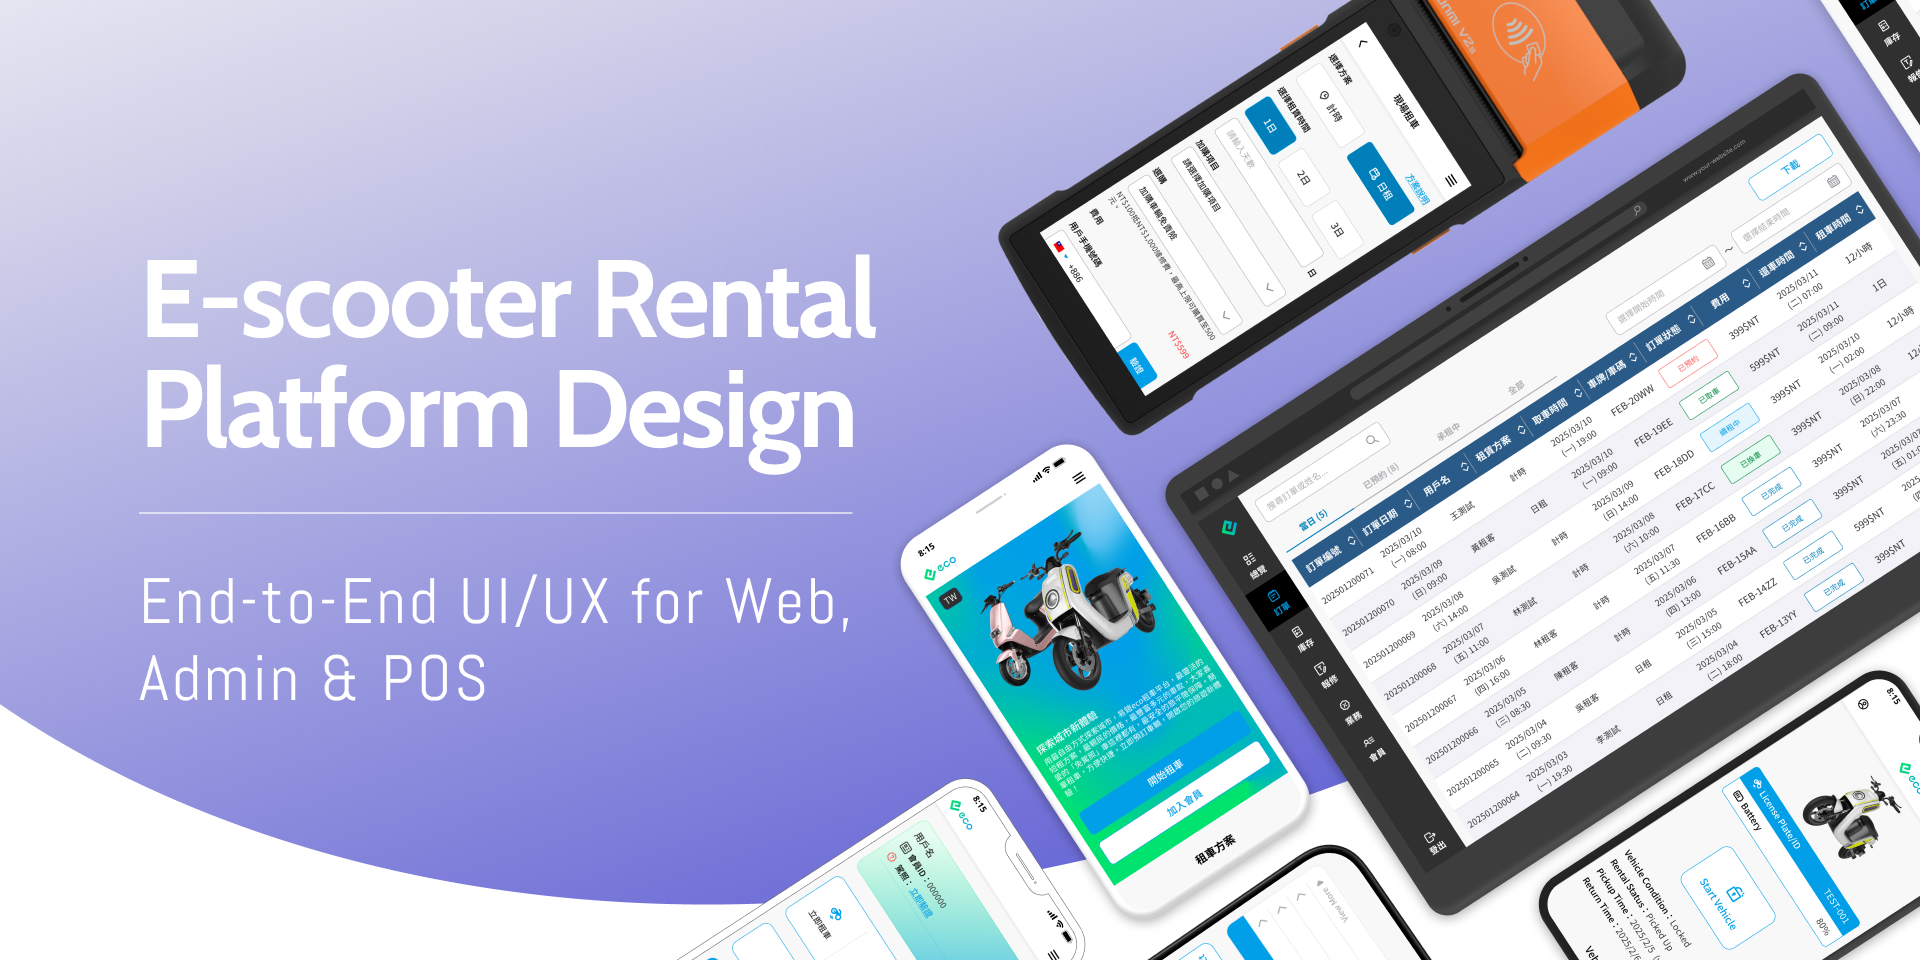
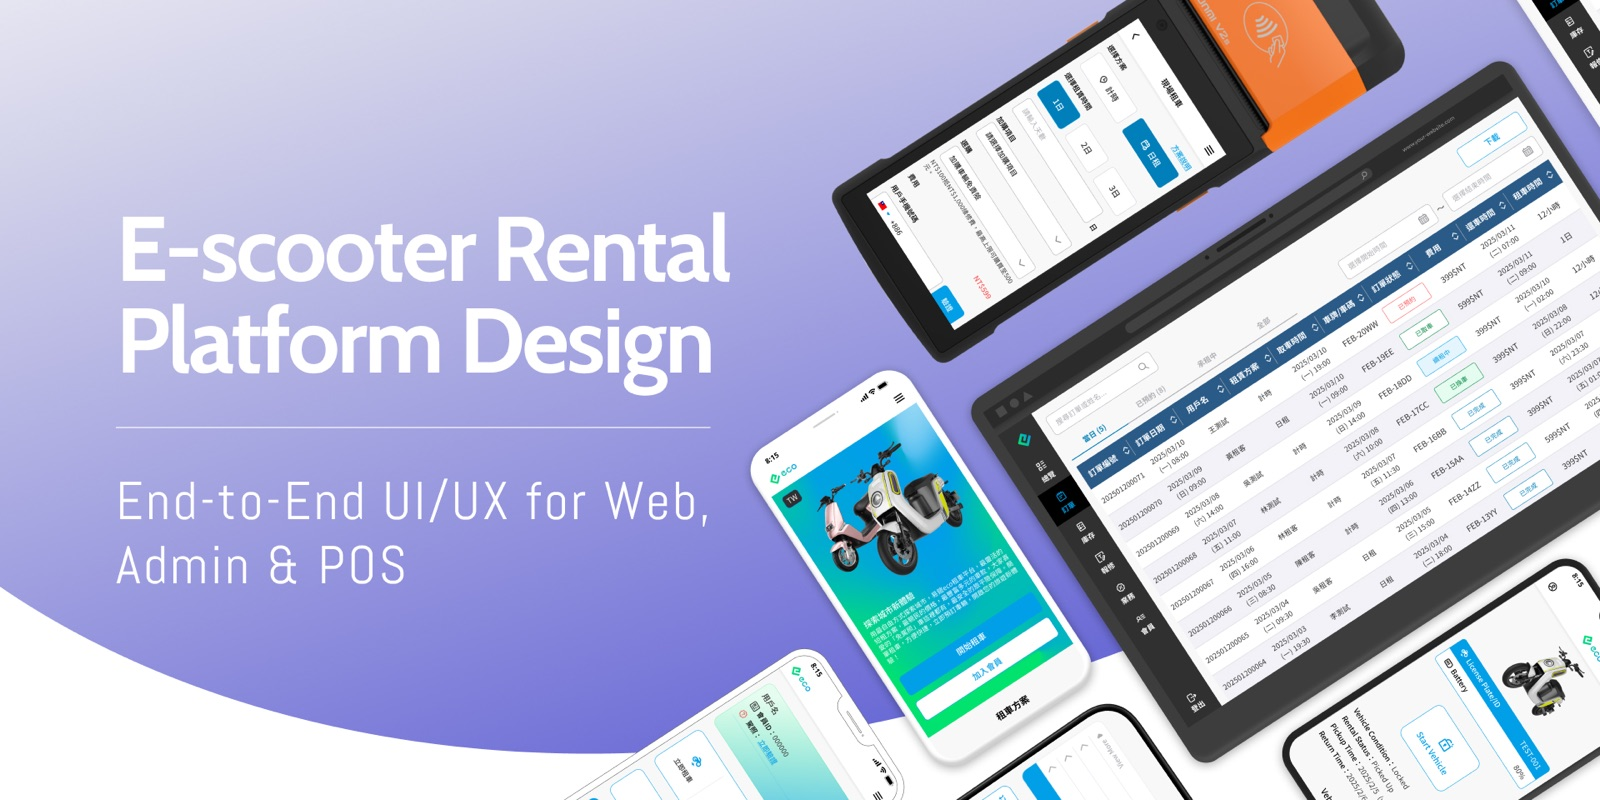
perf,a11y: shrink project images and raise secondary text contrast
Resize the three largest project images to 1600px and convert the
dailyfresh screenshot to JPEG (5.2 MB to 0.75 MB). Replace text-zinc-500
and text-zinc-600 (4.1:1 and 2.6:1) with a subtle token that clears
4.5:1 on every dark surface.

Changed region(s): [[0.5312, 0.5938, 0.5625, 0.625]]

diff --git a/src/app/[locale]/(marketing)/work/[slug]/page.tsx b/src/app/[locale]/(marketing)/work/[slug]/page.tsx
@@ -182,19 +182,19 @@ export default async function ProjectPage({ params }: ProjectPageProps) {
                 <h3 className="text-lg font-medium mb-4">{t("projectInfo")}</h3>
                 <div className="space-y-4">
                   <div>
-                    <p className="text-xs text-zinc-500 uppercase tracking-wider mb-1">
+                    <p className="text-xs text-subtle uppercase tracking-wider mb-1">
                       {t("type")}
                     </p>
                     <p className="text-zinc-200">{project.type}</p>
                   </div>
                   <div>
-                    <p className="text-xs text-zinc-500 uppercase tracking-wider mb-1">
+                    <p className="text-xs text-subtle uppercase tracking-wider mb-1">
                       {t("timeline")}
                     </p>
                     <p className="text-zinc-200">{project.quarter}</p>
                   </div>
                   <div>
-                    <p className="text-xs text-zinc-500 uppercase tracking-wider mb-1">
+                    <p className="text-xs text-subtle uppercase tracking-wider mb-1">
                       {t("stack")}
                     </p>
                     <div className="flex flex-wrap gap-1.5 mt-2">
@@ -239,7 +239,7 @@ export default async function ProjectPage({ params }: ProjectPageProps) {
                 href={`/work/${prevProject.slug}`}
                 className="group p-6 bg-zinc-900/30 border border-zinc-800 rounded-2xl hover:border-zinc-700 transition-colors"
               >
-                <div className="flex items-center gap-2 text-zinc-500 mb-2">
+                <div className="flex items-center gap-2 text-subtle mb-2">
                   <ArrowLeft size={16} />
                   <span className="text-sm">{t("previousProject")}</span>
                 </div>
@@ -256,7 +256,7 @@ export default async function ProjectPage({ params }: ProjectPageProps) {
                 href={`/work/${nextProject.slug}`}
                 className="group p-6 bg-zinc-900/30 border border-zinc-800 rounded-2xl hover:border-zinc-700 transition-colors text-right"
               >
-                <div className="flex items-center justify-end gap-2 text-zinc-500 mb-2">
+                <div className="flex items-center justify-end gap-2 text-subtle mb-2">
                   <span className="text-sm">{t("nextProject")}</span>
                   <ArrowRight size={16} />
                 </div>

diff --git a/src/app/[locale]/(marketing)/work/page.tsx b/src/app/[locale]/(marketing)/work/page.tsx
@@ -19,15 +19,15 @@ function ProjectCard({ project, index }: { project: Project; index: number }) {
       {/* Header: Number --- TYPE and Date */}
       <div className="flex items-center justify-between mb-3">
         <div className="flex items-center gap-3">
-          <span className="text-[13px] text-zinc-500 font-light">
+          <span className="text-[13px] text-subtle font-light">
             {projectNumber}
           </span>
           <div className="h-px bg-zinc-700 w-10" />
-          <span className="text-[10px] uppercase tracking-[0.2em] text-zinc-500">
+          <span className="text-[10px] uppercase tracking-[0.2em] text-subtle">
             {project.type}
           </span>
         </div>
-        <span className="text-[11px] text-zinc-500 tracking-wide">
+        <span className="text-[11px] text-subtle tracking-wide">
           {project.quarter}
         </span>
       </div>
@@ -37,7 +37,7 @@ function ProjectCard({ project, index }: { project: Project; index: number }) {
         <h2 className="text-[26px] font-serif text-white group-hover:text-zinc-300 transition-colors leading-tight">
           {project.title}
           {project.subtitle && (
-            <span className="text-zinc-500 ml-2 text-[20px] font-serif">
+            <span className="text-subtle ml-2 text-[20px] font-serif">
               {project.subtitle}
             </span>
           )}
@@ -134,7 +134,7 @@ export default function WorkPage() {
 
       {/* Hero Section */}
       <section className="px-6 pt-32 pb-16 max-w-6xl mx-auto text-center relative z-10">
-        <p className="text-[11px] uppercase tracking-[0.35em] text-zinc-500 mb-5">
+        <p className="text-[11px] uppercase tracking-[0.35em] text-subtle mb-5">
           {t("label")}
         </p>
         <h1 className="text-4xl md:text-5xl lg:text-[56px] font-medium leading-tight">

diff --git a/src/app/[locale]/(marketing)/resume/page.tsx b/src/app/[locale]/(marketing)/resume/page.tsx
@@ -21,7 +21,7 @@ export default function ResumePage() {
     <main className="min-h-screen bg-[#0a0a0b]">
       {/* Hero */}
       <section className="px-6 pt-32 pb-16 max-w-4xl mx-auto">
-        <p className="text-xs uppercase tracking-[0.2em] text-zinc-500 mb-4">
+        <p className="text-xs uppercase tracking-[0.2em] text-subtle mb-4">
           {t("label")}
         </p>
         <h1 className="text-4xl md:text-6xl font-medium leading-tight mb-6">
@@ -49,7 +49,7 @@ export default function ResumePage() {
             {t("getInTouch")}
           </a>
         </div>
-        <p className="text-xs text-zinc-600 mt-3">Updated June 2026</p>
+        <p className="text-xs text-subtle mt-3">Updated June 2026</p>
       </section>
 
       {/* Experience */}
@@ -69,9 +69,9 @@ export default function ResumePage() {
                   <p className="text-cyan-400 text-sm">
                     {exp.company} · {exp.location}
                   </p>
-                  <p className="text-xs text-zinc-500 mt-1">{exp.techStack}</p>
+                  <p className="text-xs text-subtle mt-1">{exp.techStack}</p>
                 </div>
-                <span className="text-sm text-zinc-500 mt-1 md:mt-0 md:shrink-0">
+                <span className="text-sm text-subtle mt-1 md:mt-0 md:shrink-0">
                   {exp.period}
                 </span>
               </div>
@@ -131,7 +131,7 @@ export default function ResumePage() {
                   </h3>
                   <p className="text-cyan-400 text-sm">{edu.school}</p>
                 </div>
-                <span className="text-sm text-zinc-500 mt-1 md:mt-0">
+                <span className="text-sm text-subtle mt-1 md:mt-0">
                   {edu.period}
                 </span>
               </div>

diff --git a/src/components/layout/footer.tsx b/src/components/layout/footer.tsx
@@ -37,12 +37,12 @@ export default function Footer() {
                 <span className="text-lg font-bold">WW</span>
               </div>
             </div>
-            <p className="text-sm text-zinc-500">{t("brand")}</p>
+            <p className="text-sm text-subtle">{t("brand")}</p>
           </div>
 
           {/* General */}
           <div>
-            <h4 className="text-xs uppercase tracking-widest text-zinc-500 mb-4">
+            <h4 className="text-xs uppercase tracking-widest text-subtle mb-4">
               {t("general")}
             </h4>
             <ul className="space-y-2">
@@ -61,7 +61,7 @@ export default function Footer() {
 
           {/* Specifics */}
           <div>
-            <h4 className="text-xs uppercase tracking-widest text-zinc-500 mb-4">
+            <h4 className="text-xs uppercase tracking-widest text-subtle mb-4">
               {t("specifics")}
             </h4>
             <ul className="space-y-2">
@@ -80,7 +80,7 @@ export default function Footer() {
 
           {/* Social */}
           <div>
-            <h4 className="text-xs uppercase tracking-widest text-zinc-500 mb-4">
+            <h4 className="text-xs uppercase tracking-widest text-subtle mb-4">
               {t("more")}
             </h4>
             <ul className="space-y-2">
@@ -102,7 +102,7 @@ export default function Footer() {
 
         {/* Bottom bar */}
         <div className="pt-8 border-t border-zinc-800 flex flex-col md:flex-row items-center justify-between gap-4">
-          <p className="text-sm text-zinc-500">
+          <p className="text-sm text-subtle">
             &copy; 2026 <span className="text-zinc-300">Will Wu</span>.{" "}
             {t("copyright")}
           </p>

diff --git a/src/components/shared/CaseStudies.tsx b/src/components/shared/CaseStudies.tsx
@@ -12,7 +12,7 @@ export default function CaseStudies() {
   return (
     <section className="px-6 py-24 max-w-6xl mx-auto">
       <div className="text-center mb-16">
-        <p className="text-[11px] uppercase tracking-[0.3em] text-zinc-500 mb-4">
+        <p className="text-[11px] uppercase tracking-[0.3em] text-subtle mb-4">
           {t("label")}
         </p>
         <h2 className="text-4xl md:text-5xl font-medium">
@@ -29,10 +29,10 @@ export default function CaseStudies() {
             <div key={project.id} className="flex flex-col">
               {/* Header: Type and Date */}
               <div className="flex items-center justify-between mb-2">
-                <span className="text-[10px] uppercase tracking-[0.2em] text-zinc-500">
+                <span className="text-[10px] uppercase tracking-[0.2em] text-subtle">
                   {project.type}
                 </span>
-                <span className="text-[11px] text-zinc-500">
+                <span className="text-[11px] text-subtle">
                   {project.quarter}
                 </span>
               </div>
@@ -42,7 +42,7 @@ export default function CaseStudies() {
                 <h3 className="text-xl font-serif text-white group-hover:text-zinc-300 transition-colors">
                   {project.title}
                   {project.subtitle && (
-                    <span className="text-zinc-500 ml-2 text-base font-serif">
+                    <span className="text-subtle ml-2 text-base font-serif">
                       {project.subtitle}
                     </span>
                   )}

diff --git a/src/components/shared/ImpactStats.tsx b/src/components/shared/ImpactStats.tsx
@@ -14,7 +14,7 @@ export default function ImpactStats() {
 
   return (
     <section className="px-6 pb-12 max-w-5xl mx-auto">
-      <p className="text-center text-[11px] uppercase tracking-[0.3em] text-zinc-500 mb-6">
+      <p className="text-center text-[11px] uppercase tracking-[0.3em] text-subtle mb-6">
         {t("label")}
       </p>
       <div className="grid grid-cols-2 md:grid-cols-4 gap-4">
@@ -26,7 +26,7 @@ export default function ImpactStats() {
           >
             <ArrowUpRight
               size={14}
-              className="absolute top-3 right-3 text-zinc-600 group-hover:text-zinc-300 transition-colors"
+              className="absolute top-3 right-3 text-subtle group-hover:text-zinc-300 transition-colors"
               aria-hidden="true"
             />
             <div className="text-3xl md:text-4xl font-semibold gradient-text-pink">
@@ -36,7 +36,7 @@ export default function ImpactStats() {
           </Link>
         ))}
       </div>
-      <p className="text-center text-xs text-zinc-600 mt-4">{t("hint")}</p>
+      <p className="text-center text-xs text-subtle mt-4">{t("hint")}</p>
     </section>
   );
 }

diff --git a/src/components/shared/CareerLine.tsx b/src/components/shared/CareerLine.tsx
@@ -29,7 +29,7 @@ export default function CareerLine() {
   return (
     <section id="career" className="px-6 py-24 max-w-6xl mx-auto scroll-mt-20">
       <div className="text-center mb-14">
-        <p className="text-[11px] uppercase tracking-[0.3em] text-zinc-500 mb-4">
+        <p className="text-[11px] uppercase tracking-[0.3em] text-subtle mb-4">
           {t("label")}
         </p>
         <h2 className="text-4xl md:text-5xl font-medium">
@@ -55,7 +55,7 @@ export default function CareerLine() {
                 aria-hidden="true"
               />
               <Link href={stop.href} className="group block md:pt-8">
-                <p className="text-[11px] text-zinc-500 mb-1">{stop.period}</p>
+                <p className="text-[11px] text-subtle mb-1">{stop.period}</p>
                 <p className="text-lg text-white group-hover:text-zinc-300 transition-colors">
                   {stop.name}
                 </p>

diff --git a/src/app/[locale]/(marketing)/about/page.tsx b/src/app/[locale]/(marketing)/about/page.tsx
@@ -19,7 +19,7 @@ export default function AboutPage() {
     <main className="min-h-screen bg-[#0a0a0b]">
       {/* Hero Section */}
       <section className="px-6 pt-32 pb-16 max-w-6xl mx-auto">
-        <p className="text-xs uppercase tracking-[0.2em] text-zinc-500 mb-4">
+        <p className="text-xs uppercase tracking-[0.2em] text-subtle mb-4">
           {t("label")}
         </p>
         <h1 className="text-4xl md:text-6xl font-medium leading-tight mb-8">
@@ -114,7 +114,7 @@ export default function AboutPage() {
                   <h3 className="text-xl font-medium text-white">{exp.role}</h3>
                   <p className="text-cyan-400">{exp.company}</p>
                 </div>
-                <span className="text-sm text-zinc-500 mt-2 md:mt-0">
+                <span className="text-sm text-subtle mt-2 md:mt-0">
                   {exp.period}
                 </span>
               </div>

diff --git a/src/components/shared/Judgments.tsx b/src/components/shared/Judgments.tsx
@@ -21,7 +21,7 @@ export default function Judgments() {
       className="px-6 py-24 max-w-4xl mx-auto scroll-mt-20"
     >
       <div className="text-center mb-6">
-        <p className="text-[11px] uppercase tracking-[0.3em] text-zinc-500 mb-4">
+        <p className="text-[11px] uppercase tracking-[0.3em] text-subtle mb-4">
           {t("label")}
         </p>
         <h2 className="text-4xl md:text-5xl font-medium leading-tight">
@@ -48,7 +48,7 @@ export default function Judgments() {
               {String(judgments.length - index).padStart(2, "0")}
             </span>
             <div className="flex items-center gap-3 mb-2 flex-wrap">
-              <time dateTime={j.date} className="text-sm text-zinc-500">
+              <time dateTime={j.date} className="text-sm text-subtle">
                 {j.date}
               </time>
               <span

diff --git a/src/lib/projects.ts b/src/lib/projects.ts
@@ -90,7 +90,7 @@ const projectsEn: Project[] = [
     quarter: "Q1 2026",
     gradient: "from-emerald-900/80 via-green-800/60 to-teal-900/80",
     featured: true,
-    screenshots: ["/images/projects/dailyfresh.png"],
+    screenshots: ["/images/projects/dailyfresh.jpg"],
     features: [
       "Microservice backend architecture with Go and Gin",
       "Buyer and seller Flutter mobile apps",
@@ -333,7 +333,7 @@ const projectsZhTw: Project[] = [
     quarter: "2026 Q1",
     gradient: "from-emerald-900/80 via-green-800/60 to-teal-900/80",
     featured: true,
-    screenshots: ["/images/projects/dailyfresh.png"],
+    screenshots: ["/images/projects/dailyfresh.jpg"],
     features: [
       "使用 Go 和 Gin 的微服務後端架構",
       "買家和賣家 Flutter 行動應用",

diff --git a/src/components/shared/Hero.tsx b/src/components/shared/Hero.tsx
@@ -71,7 +71,7 @@ export default function Hero() {
       </div>
 
       <div className="relative z-10 max-w-4xl mx-auto text-center">
-        <p className="text-[11px] uppercase tracking-[0.3em] text-zinc-500 mb-8">
+        <p className="text-[11px] uppercase tracking-[0.3em] text-subtle mb-8">
           {t("eyebrow")}
         </p>
 

diff --git a/src/components/shared/Closing.tsx b/src/components/shared/Closing.tsx
@@ -33,7 +33,7 @@ export default function Closing() {
         </a>
       </div>
 
-      <p className="text-sm text-zinc-500">
+      <p className="text-sm text-subtle">
         will413028@gmail.com ·{" "}
         <a
           href="https://github.com/will413028"
